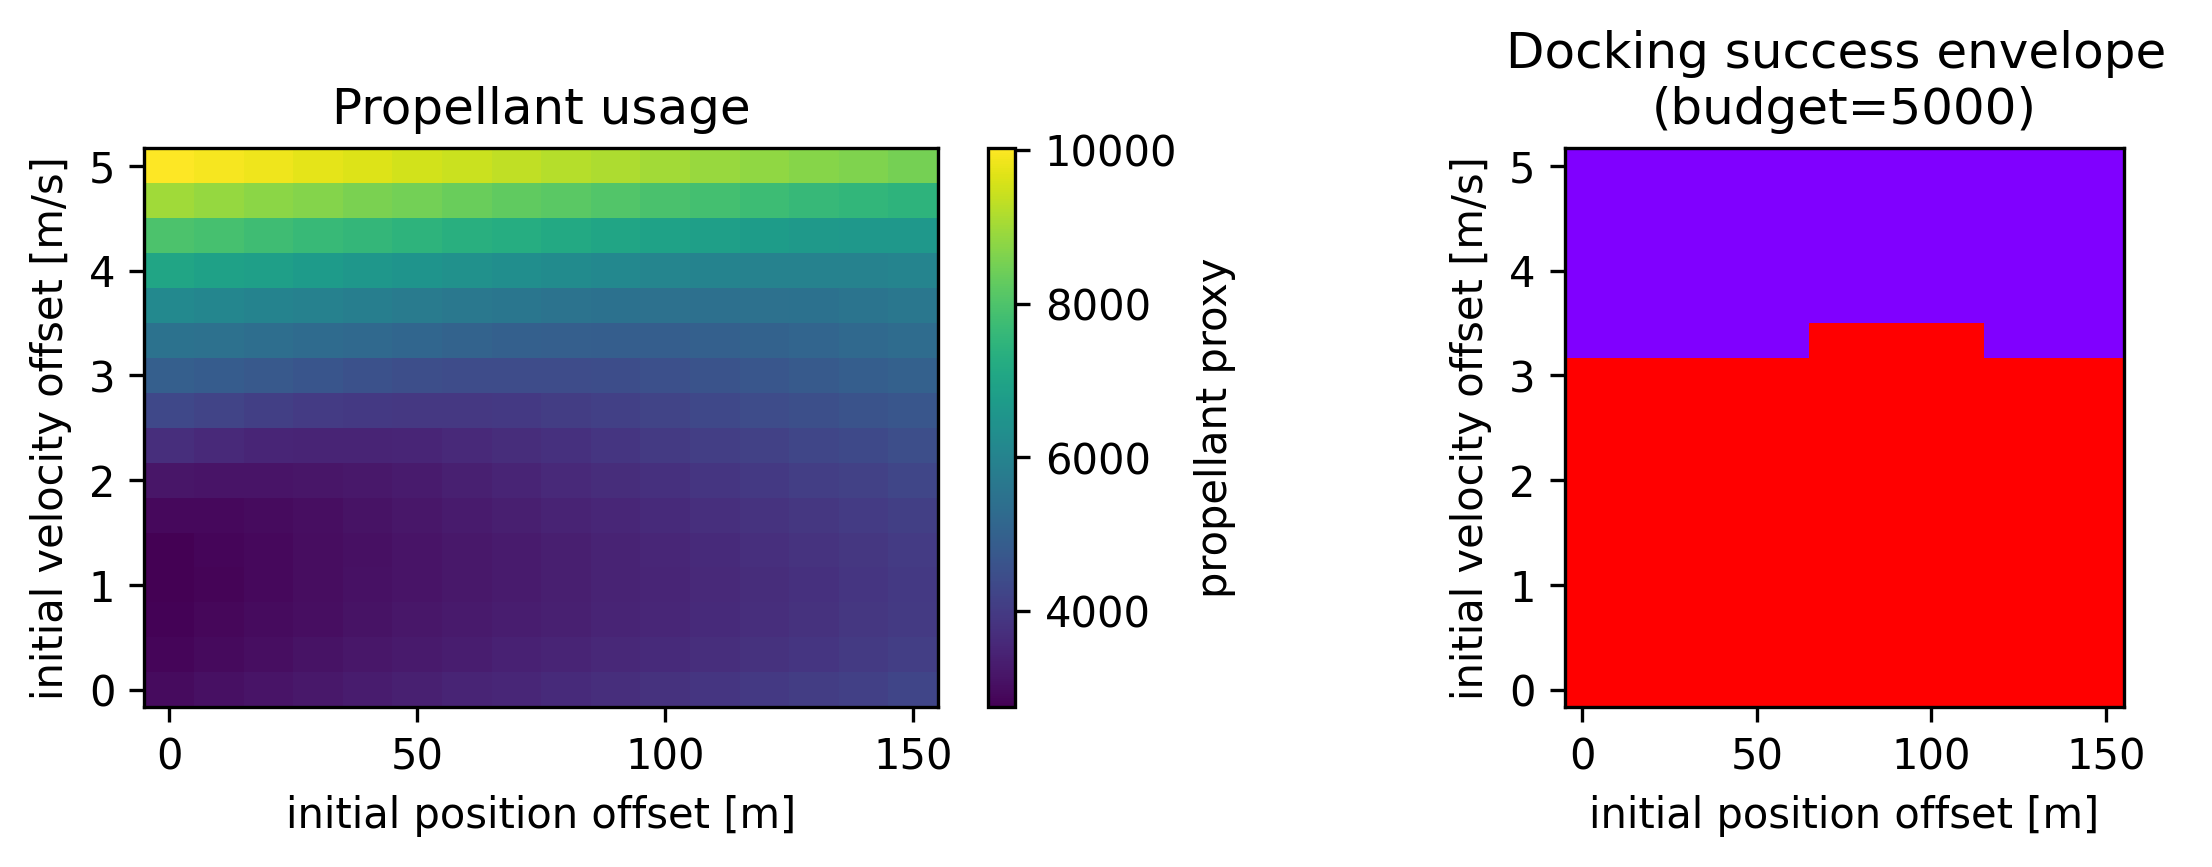
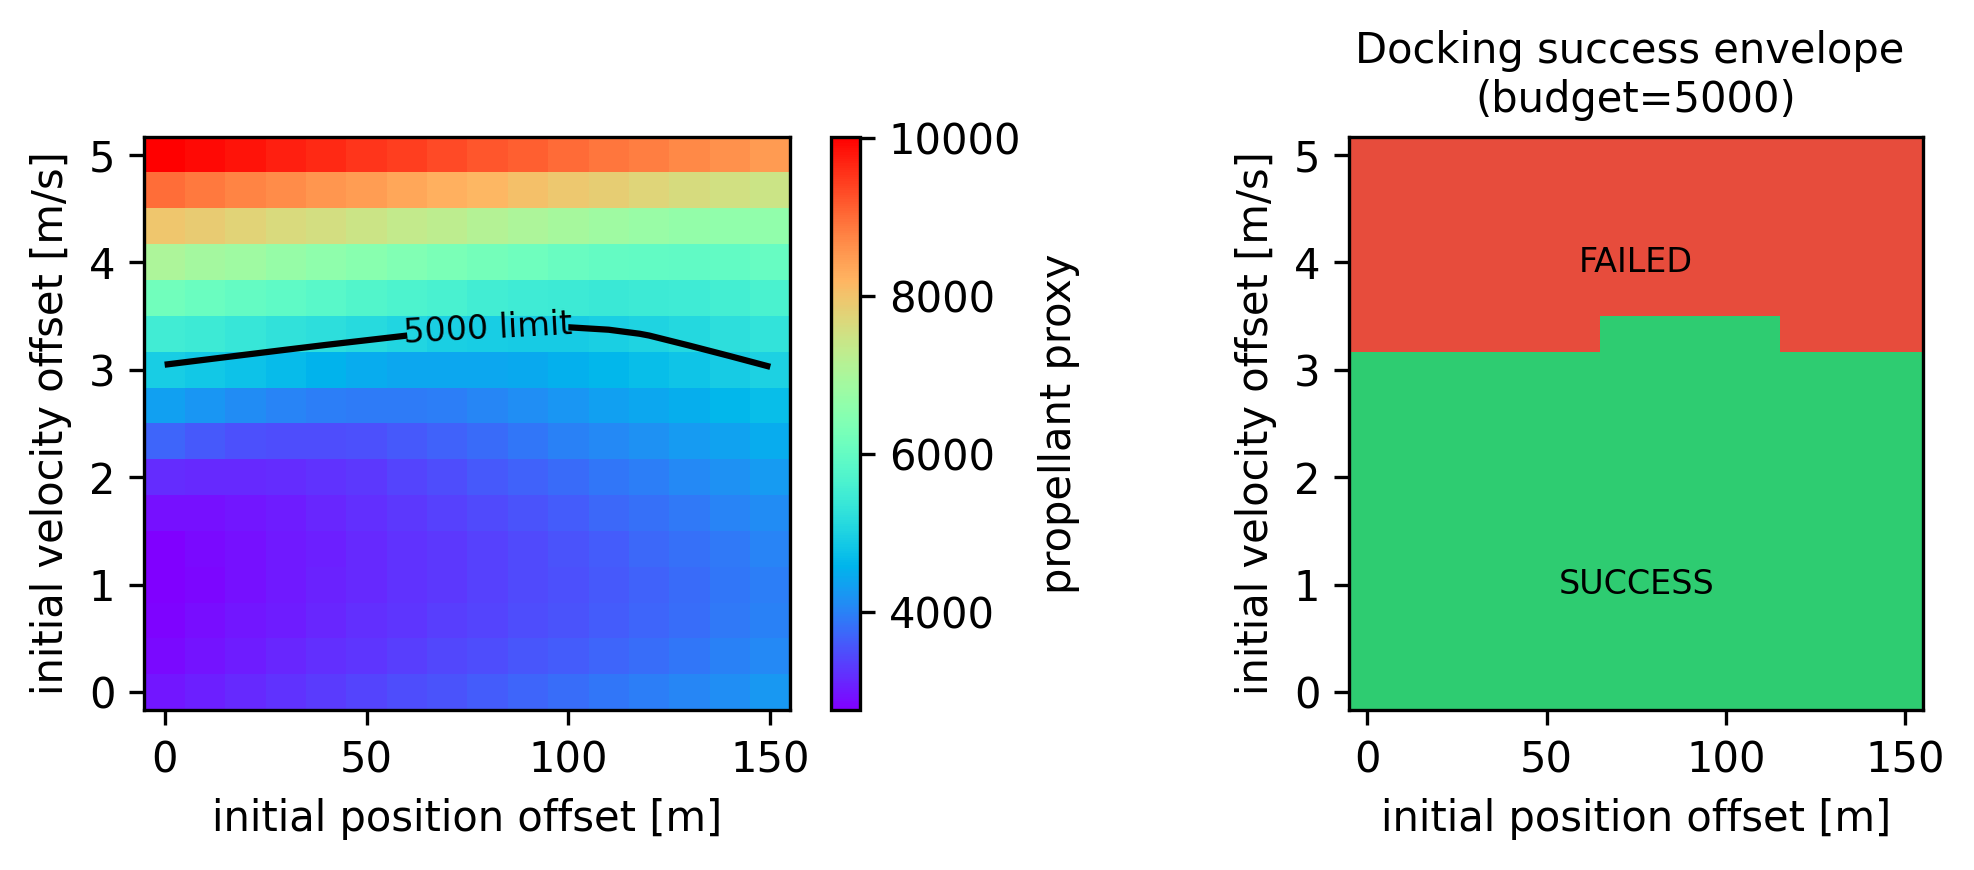
updated envelope

diff --git a/scripts/run_envelope.py b/scripts/run_envelope.py
@@ -2,8 +2,10 @@
 error on a grid, run one docking sim per grid point, and map which
 initial conditions succeed within the propellant budget."""
 
+import os
 import numpy as np
 import matplotlib.pyplot as plt
+from matplotlib.colors import ListedColormap
 
 from src.environment.plant import Plant
 from src.environment.actuators import Actuators
@@ -18,6 +20,7 @@ from src.analysis.monte_carlo import default_ekf_config
 from scripts.run_nominal import build_params
 
 PROPELLANT_BUDGET = 5000.0
+DATA_FILE = "../results/envelope_data.npz"
 
 def make_ic(nominal_x0, pos_offset, vel_offset):
     """Place the chaser pos_offset [m] further out along a fixed direction
@@ -31,7 +34,6 @@ def make_ic(nominal_x0, pos_offset, vel_offset):
     #dtheta = np.deg2rad(att_offset_deg)
     #dq = quat_normalize(np.array([np.cos(dtheta/2), np.sin(dtheta/2), 0, 0]))
     #x0[6:10] = quat_normalize(quat_multiply(x0[6:10], dq))
-
     return x0
 
 def run_one(nominal_x0, pos_offset, vel_offset, params, dock_position,
@@ -74,29 +76,47 @@ def run_one(nominal_x0, pos_offset, vel_offset, params, dock_position,
 
 
 def main():
-    params = build_params()
-    nominal_x0 = np.zeros(13)
-    nominal_x0[0:3] = [50.0, -100.0, 20.0]
-    nominal_x0[6:10] = [1.0, 0.0, 0.0, 0.0]
-    dock_position = np.array([0.0, -5.0, 0.0])
+    # Load cached data if it exists
+    if os.path.exists(DATA_FILE):
+        print(f"Loading cached simulation data from {DATA_FILE}...")
+        data = np.load(DATA_FILE)
+        pos_offsets = data['pos_offsets']
+        vel_offsets = data['vel_offsets']
+        prop_grid = data['prop_grid']
+        succ_grid = data['succ_grid']
+    else:
+        print("No cache found. Run sims...")
+        params = build_params()
+        nominal_x0 = np.zeros(13)
+        nominal_x0[0:3] = [50.0, -100.0, 20.0]
+        nominal_x0[6:10] = [1.0, 0.0, 0.0, 0.0]
+        dock_position = np.array([0.0, -5.0, 0.0])
 
-    # 16x16 grid of position offset (x) vs velocity offset (y)
-    pos_offsets = np.linspace(0, 150, 16)     # along-track position offset
-    vel_offsets = np.linspace(0, 5, 16)       # along-track velocity offset
+        # 16x16 grid of position offset (x) vs velocity offset (y)
+        pos_offsets = np.linspace(0, 150, 16)     # along-track position offset
+        vel_offsets = np.linspace(0, 5, 16)       # along-track velocity offset
 
-    prop_grid = np.zeros((len(vel_offsets), len(pos_offsets)))
-    succ_grid = np.zeros_like(prop_grid, dtype=bool)
+        prop_grid = np.zeros((len(vel_offsets), len(pos_offsets)))
+        succ_grid = np.zeros_like(prop_grid, dtype=bool)
 
-    total = len(pos_offsets) * len(vel_offsets)
-    count = 0
-    for i, vel in enumerate(vel_offsets):        # rows = vel
-        for j, pos in enumerate(pos_offsets):    # cols = pos
-            prop, succ = run_one(nominal_x0, pos, vel, params, dock_position)
-            prop_grid[i, j] = prop
-            succ_grid[i, j] = succ
-            count += 1
-            if count % 16 == 0:
-                print(f"  {count}/{total}")
+        total = len(pos_offsets) * len(vel_offsets)
+        count = 0
+        for i, vel in enumerate(vel_offsets):        # rows = vel
+            for j, pos in enumerate(pos_offsets):    # cols = pos
+                prop, succ = run_one(nominal_x0, pos, vel, params, dock_position)
+                prop_grid[i, j] = prop
+                succ_grid[i, j] = succ
+                count += 1
+                if count % 16 == 0:
+                    print(f"  {count}/{total}")
+
+        # Save data array to disk
+        np.savez(DATA_FILE, 
+                 pos_offsets=pos_offsets, 
+                 vel_offsets=vel_offsets, 
+                 prop_grid=prop_grid, 
+                 succ_grid=succ_grid)
+        print(f"Saved simulation results to {DATA_FILE}")
 
     plot_envelope(pos_offsets, vel_offsets, prop_grid, succ_grid)
 
@@ -129,24 +149,32 @@ def main():
 
 
 def plot_envelope(pos_offsets, vel_offsets, prop_grid, succ_grid):
-    fig, axs = plt.subplots(1, 2, figsize=(8,3), tight_layout=True)
+    fig, axs = plt.subplots(1, 2, figsize=(7,3), tight_layout=True)
 
     im = axs[0].pcolormesh(pos_offsets, vel_offsets, prop_grid,
-                           shading="auto", cmap="viridis")
+                           shading="auto", cmap="rainbow")
+    
+    # Overlay 5000 propellant limit contour line
+    CS = axs[0].contour(pos_offsets, vel_offsets, prop_grid, 
+                        levels=[PROPELLANT_BUDGET], colors='k', linewidths=1.5)
+    axs[0].clabel(CS, inline=True, fmt={PROPELLANT_BUDGET: "5000 limit"}, fontsize=8)
+
     fig.colorbar(im, ax=axs[0], label="propellant proxy")
     axs[0].set_xlabel("initial position offset [m]")
     axs[0].set_ylabel("initial velocity offset [m/s]")
-    axs[0].set_title("Propellant usage")
 
+    binary_cmap = ListedColormap(["#e74c3c", "#2ecc71"])
     axs[1].pcolormesh(pos_offsets, vel_offsets, succ_grid,
-                      shading="auto", cmap="rainbow", vmin=0, vmax=1)
+                      shading="auto", cmap=binary_cmap, vmin=0, vmax=1)
     axs[1].set_xlabel("initial position offset [m]")
     axs[1].set_ylabel("initial velocity offset [m/s]")
-    axs[1].set_title(f"Docking success envelope \n(budget={PROPELLANT_BUDGET:.0f})")
+    axs[1].set_title("Docking success envelope", fontsize=10)
     axs[1].set_box_aspect(1.0)
+    axs[1].text(75, 2, "SUCCESS", color="k", ha="center", va="center", fontsize=8)
+    axs[1].text(75, 4, "FAILED", color="k",ha="center", va="center", fontsize=8)
 
     plt.tight_layout()
-    plt.savefig("results/envelope_results.png", dpi=300, bbox_inches="tight")
+    plt.savefig("results/envelope_results_2.png", dpi=300, bbox_inches="tight")
 
 if __name__ == "__main__":
     main()

diff --git a/results/summary.md b/results/summary.md
@@ -3,7 +3,7 @@ The 6-DOF closed loop successfully performs autonomous lunar-orbit rendezvous
 and docking. From an initial 100 m relative offset with 10° attitude error,
 the LQR controller drives relative position to the docking setpoint
 ([0, −5, 0] m, Hill frame) and attitude to alignment, with commanded thrust
-decaying to zero at steady state — confirming convergence.
+decaying to zero at steady state, confirming convergence.
 ![FIG 1: nominal docking convergence](nominal_docking_run.png)
 
 ### 2. LQR Tuning
@@ -56,9 +56,9 @@ entire sweep.
 ### 5. Filter Consistency (NEES / NIS)
 Filter consistency was validated against chi-squared bounds (error-state
 dimension = 12):
-- **NIS mean = 11.39** (expected 12), with 95.2% of samples inside the 95%
+- **NIS mean = 11.36** (expected 12), with 95.3% of samples inside the 95%
   confidence interval, confirming the measurement-noise model R is well-tuned.
-- **NEES mean = 8.17** (expected 12), with 86.6% of samples inside the 95% CI, 
+- **NEES mean = 8.44** (expected 12), with 87.5% of samples inside the 95% CI, 
   indicating mild underconfidence: the filter's claimed uncertainty is
   conservatively larger than its actual error.
 ![FIG 5: NEES / NIS consistency](ekf_consistency.png)
@@ -82,28 +82,25 @@ noise seeds.
 
 
 ### 7. Robustness Envelope
-To identify *which* initial conditions are recoverable (complementing the
-statistical MC view), an 8×8 grid over initial position and velocity
-offsets was mapped against the 5000-unit propellant budget,
-yielding an overall recoverable fraction of **70.3%**.
+To identify *which* initial conditions are recoverable, a 16×16 grid
+over initial position and velocity offsets was mapped against the 5000-unit
+propellant budget, yielding an overall recoverable fraction of **64.5%**.
 
 - **Propellant is dominated by initial velocity offset**, not position:
-  consumption ranged from **2152** (near-zero velocity) to **9491** (5 m/s
+  consumption ranged from **2751** (near-zero velocity) to **10020** (5 m/s
   velocity offset), with only weak dependence on position offset.
-- **Velocity is the dominating factor.** All initial velocity offsets
-  **≤ 3.57 m/s** dock successfully within budget across the full tested
-  position range (0–150 m); at **4.29 m/s and above, no position offset
-  succeeds**, the spacecraft always exhausts its propellant killing the
-  initial velocity.
-- **Non-monotonic in position.** The maximum recoverable velocity
-  *increases* with position offset: at small offsets (<50 m) the limit is
-  **2.86 m/s**, rising to **3.57 m/s** for larger offsets. Larger along-track
-  offsets thus tolerate higher initial velocity, a counterintuitive result
-  reflecting the coupled position–velocity structure of CW relative motion.
+- **Velocity thresholding**: All initial velocity offsets ≤ 3.00 m/s dock
+  successfully within budget across the full tested position range (0–150 m).
+  Above 3.33 m/s, no initial position offset yields a successful run.
+- **Non-monotonic in position**: the maximum recoverable velocity slightly 
+  increases in the mid-range position offset region. At small offsets (<70 m)
+  and extreme offsets (>110 m), the velocity threshold is 3.00 m/s, whereas
+  mid-range offsets (70–110 m) tolerate up to 3.33 m/s. This slight increase
+  reflects the coupled position-velocity dynamics inherent to Clohessy-Wiltshire.
 
 #This envelope defines an effective approach corridor: the region of initial
-#relative states (roughly, initial velocity ≲ 3 m/s at close range, ≲ 3.6 m/s
-#farther out) from which autonomous docking succeeds within the fuel budget.
+#relative states (roughly, initial velocity ≲ 3 m/s at close range, ≲ 3.33 m/s
+#farther out) from which docking succeeds within the fuel budget.
 ![FIG 7: 2D robustness envelope](envelope_results.png)
 
 
@@ -116,14 +113,14 @@ nominal error once measurements resume: for dropouts from 300 s up to 2000 s
 (with recovery time available), final docking error stayed within ~0.5 m and
 ~0.6°, and docking succeeded in every case. As an example, a 300 s dropout let
 estimation error drift from its ~0.03 m / ~0.16° nominal level to a peak of
-2.52 m / 5.87° during the outage, then snap back to nominal (0.044 m / 0.503°)
+6.30 m / 9.63° during the outage, then snap back to nominal (0.055 m / 0.459°)
 after measurements returned.
 
 The sweep also caught a subtle test artifact. An early run showed a 2000 s
-dropout failing badly (14.6 m, 37° final error), but that dropout ran to the
+dropout failing badly (33.8 m, 61° final error), but that dropout ran to the
 very end of the docking window, so measurements never came back before docking.
 Re-running the same 2000 s dropout earlier, so measurements resumed with time to
-spare, docked cleanly (0.045 m, 0.048°). So the real limit isn't how long the
+spare, docked cleanly (0.054 m, 0.276°). So the real limit isn't how long the
 filter can coast, it's whether measurements return early enough to re-converge
 before docking. This distinction only showed up because the first-pass result
 was double-checked rather than taken at face value.
